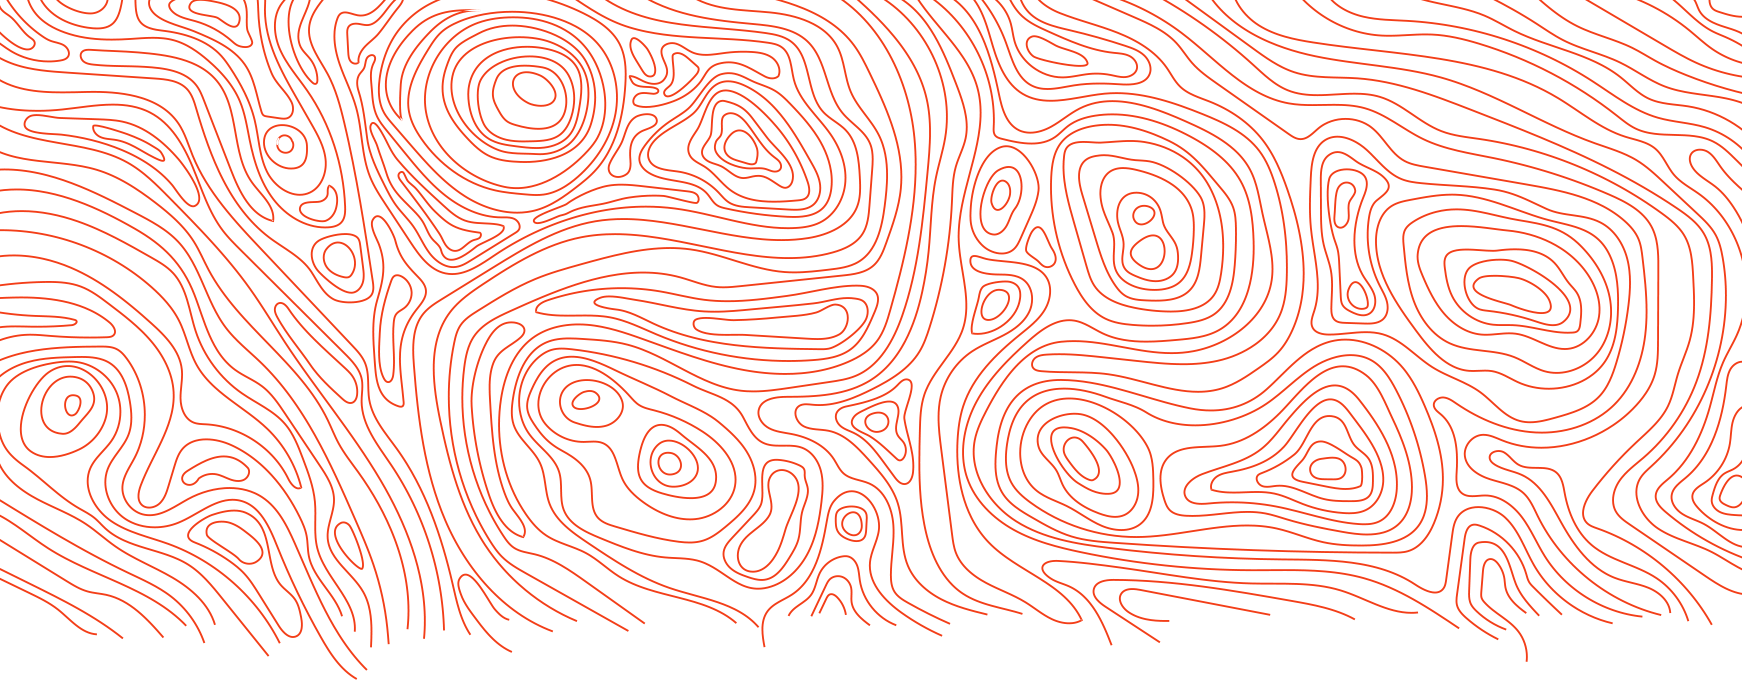
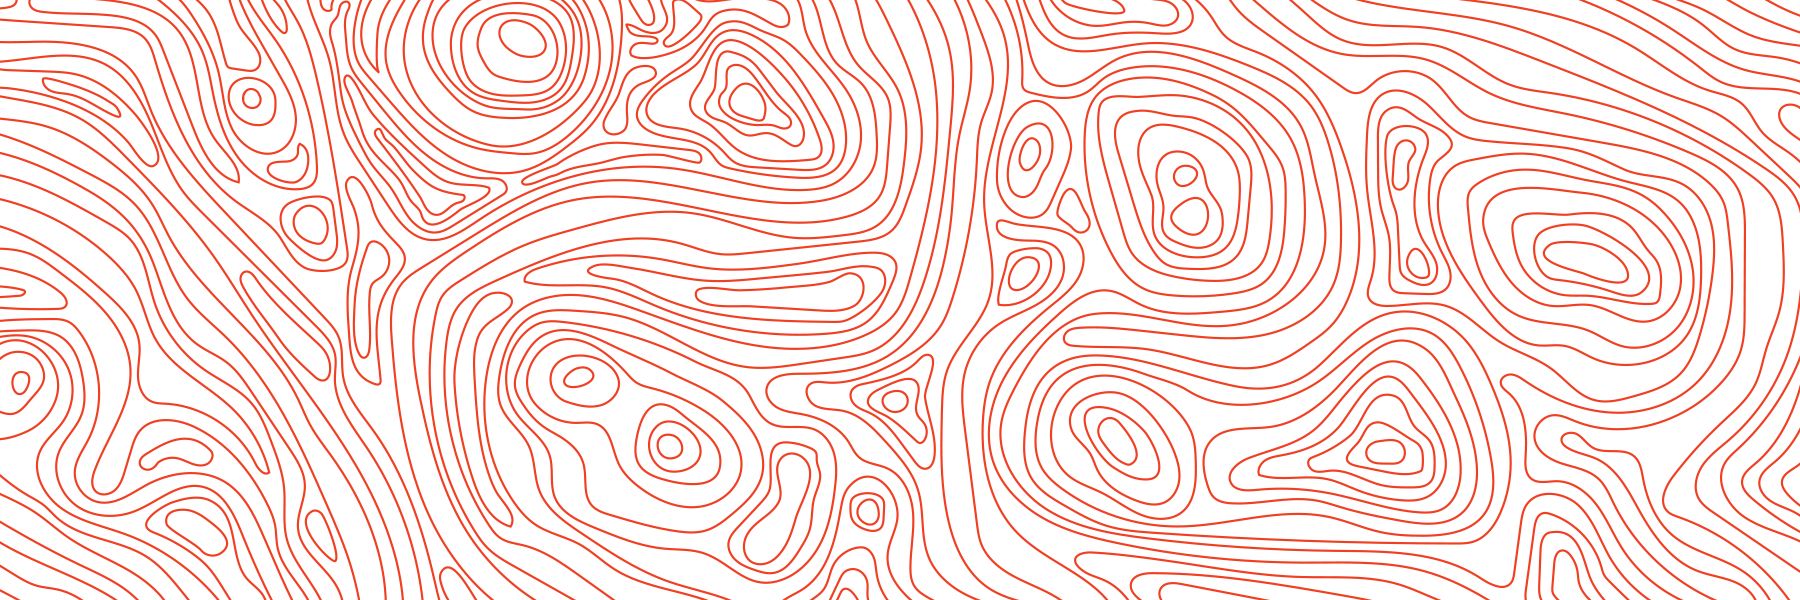
working on navigation and contact form

diff --git a/src/components/Navigation.js b/src/components/Navigation.js
@@ -1,4 +1,6 @@
-import React, {Component} from 'react';
+import React, {Component, PropTypes} from 'react';
+import {Link} from 'react-router';
+import classnames from 'classnames';
 
 // Components
 import Container from './Container';
@@ -8,15 +10,72 @@ import Logo from './Logo';
 import './Navigation.scss';
 
 class Navigation extends Component {
+  static propTypes = {
+    current: PropTypes.string.isRequired,
+    floating: PropTypes.bool
+  }
+
+  static defaultProps = {
+    floating: false
+  }
+
+  constructor(props) {
+    super(props);
+    this.state = {showContactForm: false};
+    this.closeContactForm = this.closeContactForm.bind(this);
+    this.openContactForm = this.openContactForm.bind(this);
+  }
+
+  closeContactForm(e) {
+    e.preventDefault();
+    this.setState({
+      showContactForm: false
+    });
+  }
+
+  openContactForm(e) {
+    e.preventDefault();
+    this.setState({
+      showContactForm: true
+    });
+  }
+
   render() {
+
+    const {showContactForm} = this.state;
+    const {current, floating} = this.props;
+
     return (
-      <Container size={'fullWidth'} className='Navigation'>
-        <Container size={'maxWidth'}>
-          <nav>
-            <Logo className='navLogo'/>
-          </nav>
+        <Container size={'fullWidth'} className={classnames('Navigation', {['floating']: floating})}>
+          {(() => {
+            if (showContactForm) {
+              return (
+                <div className='contactForm'>
+                  <Container size={'maxWidth'}>
+                  </Container>
+                </div>
+              );
+            }
+          })()}
+          <Container size={'maxWidth'}>
+            <nav>
+              <Link to='/'>
+                <Logo className='navLogo'/>
+              </Link>
+              <ul className='navLinks'>
+                <li className={classnames('navLink', {['current']: current === 'what-we-do'})}>
+                  <Link to='/'>what we do</Link>
+                </li>
+                <li className={classnames('navLink', {['current']: current === 'how-we-do-it'})}>
+                  <Link to='/how-we-do-it'>how we do it</Link>
+                </li>
+                <li className='navContactButton' onClick={this.openContactForm}>
+                  contact us
+                </li>
+              </ul>
+            </nav>
+          </Container>
         </Container>
-      </Container>
     )
   }
 }

diff --git a/src/components/Navigation.scss b/src/components/Navigation.scss
@@ -1,15 +1,93 @@
 @import '../styles/variables.scss';
 
 .Navigation {
-  left: 0;
+  background: $colorAccent;
   padding: $spacePx*2 0;
-  position: absolute;
-  right: 0;
-  z-index: 1;
+  position: relative;
+
+  &:after {
+    background-image: url(../images/abstract-pattern-3-rag.png);
+    background-position: bottom center;
+    background-size: cover;
+    bottom: -80px;
+    content: '';
+    display: block;
+    position: absolute;
+    height: calc(100% + 80px);
+    opacity: .15;
+    width: 100%;
+    z-index: 0;
+  }
+
+  &.floating {
+    background: none;
+    left: 0;
+    position: absolute;
+    right: 0;
+    z-index: 1;
+
+    &:after {
+      display: none;
+    }
+  }
+
+  nav {
+    display: flex;
+    position: relative;
+    z-index: 1;
+  }
 
   .navLogo {
     display: block;
     fill: $colorBlack;
     width: 120px;
+  }
+
+  .navLinks {
+    align-items: flex-end;
+    display: flex;
+    justify-content: flex-end;
+    flex-grow: 1;
+    margin: 0;
+    padding: 0;
+
+    li {
+      list-style-type: none;
+      margin: 0;
+      padding: 0;
+      font-weight: 700;
+
+      &.navLink {
+        border-bottom: 3px solid rgba(0,0,0,0);
+        line-height: 1;
+        margin: 0 0 0 $spacePx;
+        padding: 0 0 $spacePx/2 0;
+
+        &.current {
+          border-color: $colorSecondary;
+        }
+
+        a {
+          color: $colorBlack;
+          text-decoration: none;
+        }
+      }
+
+      &.navContactButton {
+        background: $colorSecondary;
+        border-radius: $borderRadius;
+        color: #fff;
+        line-height: 1;
+        padding: 8px $spacePx 11px;
+        margin: 0 0 0 $spacePx;
+      }
+    }
+  }
+
+  .contactForm {
+    position: absolute;
+    width: 100%;
+    height: 100%;
+    background: $colorSecondary;
   }
 }

diff --git a/src/index.js b/src/index.js
@@ -4,14 +4,14 @@ import {Router, Route, browserHistory} from 'react-router';
 
 // Routes
 import Home from './routes/Home';
-import Process from './routes/Process';
+import HowWeDoIt from './routes/HowWeDoIt';
 
 import './styles/index.scss';
 
 ReactDOM.render((
   <Router history={browserHistory}>
     <Route path='/' component={Home}/>
-    <Route path='/how-we-do-it' component={Process}/>
+    <Route path='/how-we-do-it' component={HowWeDoIt}/>
   </Router>),
   document.getElementById('root')
 );

diff --git a/src/routes/HowWeDoIt.js b/src/routes/HowWeDoIt.js
@@ -1,0 +1,20 @@
+import React, {Component} from 'react';
+
+// Components
+import FooterCta from '../components/FooterCta';
+import ProcessGrid from '../components/ProcessGrid';
+import Navigation from '../components/Navigation';
+
+class HowWeDoIt extends Component {
+  render() {
+    return (
+      <div>
+        <Navigation current='how-we-do-it'/>
+        <ProcessGrid />
+        {/*<FooterCta/>*/}
+      </div>
+    )
+  }
+}
+
+export default HowWeDoIt;

diff --git a/src/routes/Home.js b/src/routes/Home.js
@@ -9,8 +9,8 @@ import WorkGrid from '../components/WorkGrid';
 class Home extends Component {
   render() {
     return (
-      <div className='App'>
-        <Navigation />
+      <div>
+        <Navigation current='what-we-do' floating/>
         <HomeHero/>
         <WorkGrid/>
         <FooterCta/>

diff --git a/src/components/ProcessGrid.js b/src/components/ProcessGrid.js
@@ -1,0 +1,16 @@
+import React, {Component} from 'react';
+
+// Styles
+import './ProcessGrid.scss';
+
+class ProcessGrid extends Component {
+  render() {
+    return (
+      <div className='HowWeDoIt'>
+        how we do it!
+      </div>
+    )
+  }
+}
+
+export default ProcessGrid;

diff --git a/src/components/HomeHero.scss b/src/components/HomeHero.scss
@@ -7,7 +7,7 @@
   position: relative;
 
   &:after {
-    background-image: url(../images/abstract-pattern-1.png);
+    background-image: url(../images/abstract-pattern-1-rag.png);
     background-position: bottom center;
     background-size: cover;
     bottom: -80px;

diff --git a/src/styles/_variables.scss b/src/styles/_variables.scss
@@ -11,3 +11,6 @@ $fontSerif: 'Georgia', serif;
 // Space Units
 $space: 16;
 $spacePx: 16px;
+
+// Border Radius
+$borderRadius: 4px;

diff --git a/src/styles/index.scss b/src/styles/index.scss
@@ -11,4 +11,5 @@ body {
   font-family: $fontSans;
   margin: 0;
   padding: 0;
+  -webkit-font-smoothing: antialiased;
 }

diff --git a/src/components/ProcessGrid.scss b/src/components/ProcessGrid.scss
@@ -1,0 +1,3 @@
+.ProcessGrid {
+  
+}
